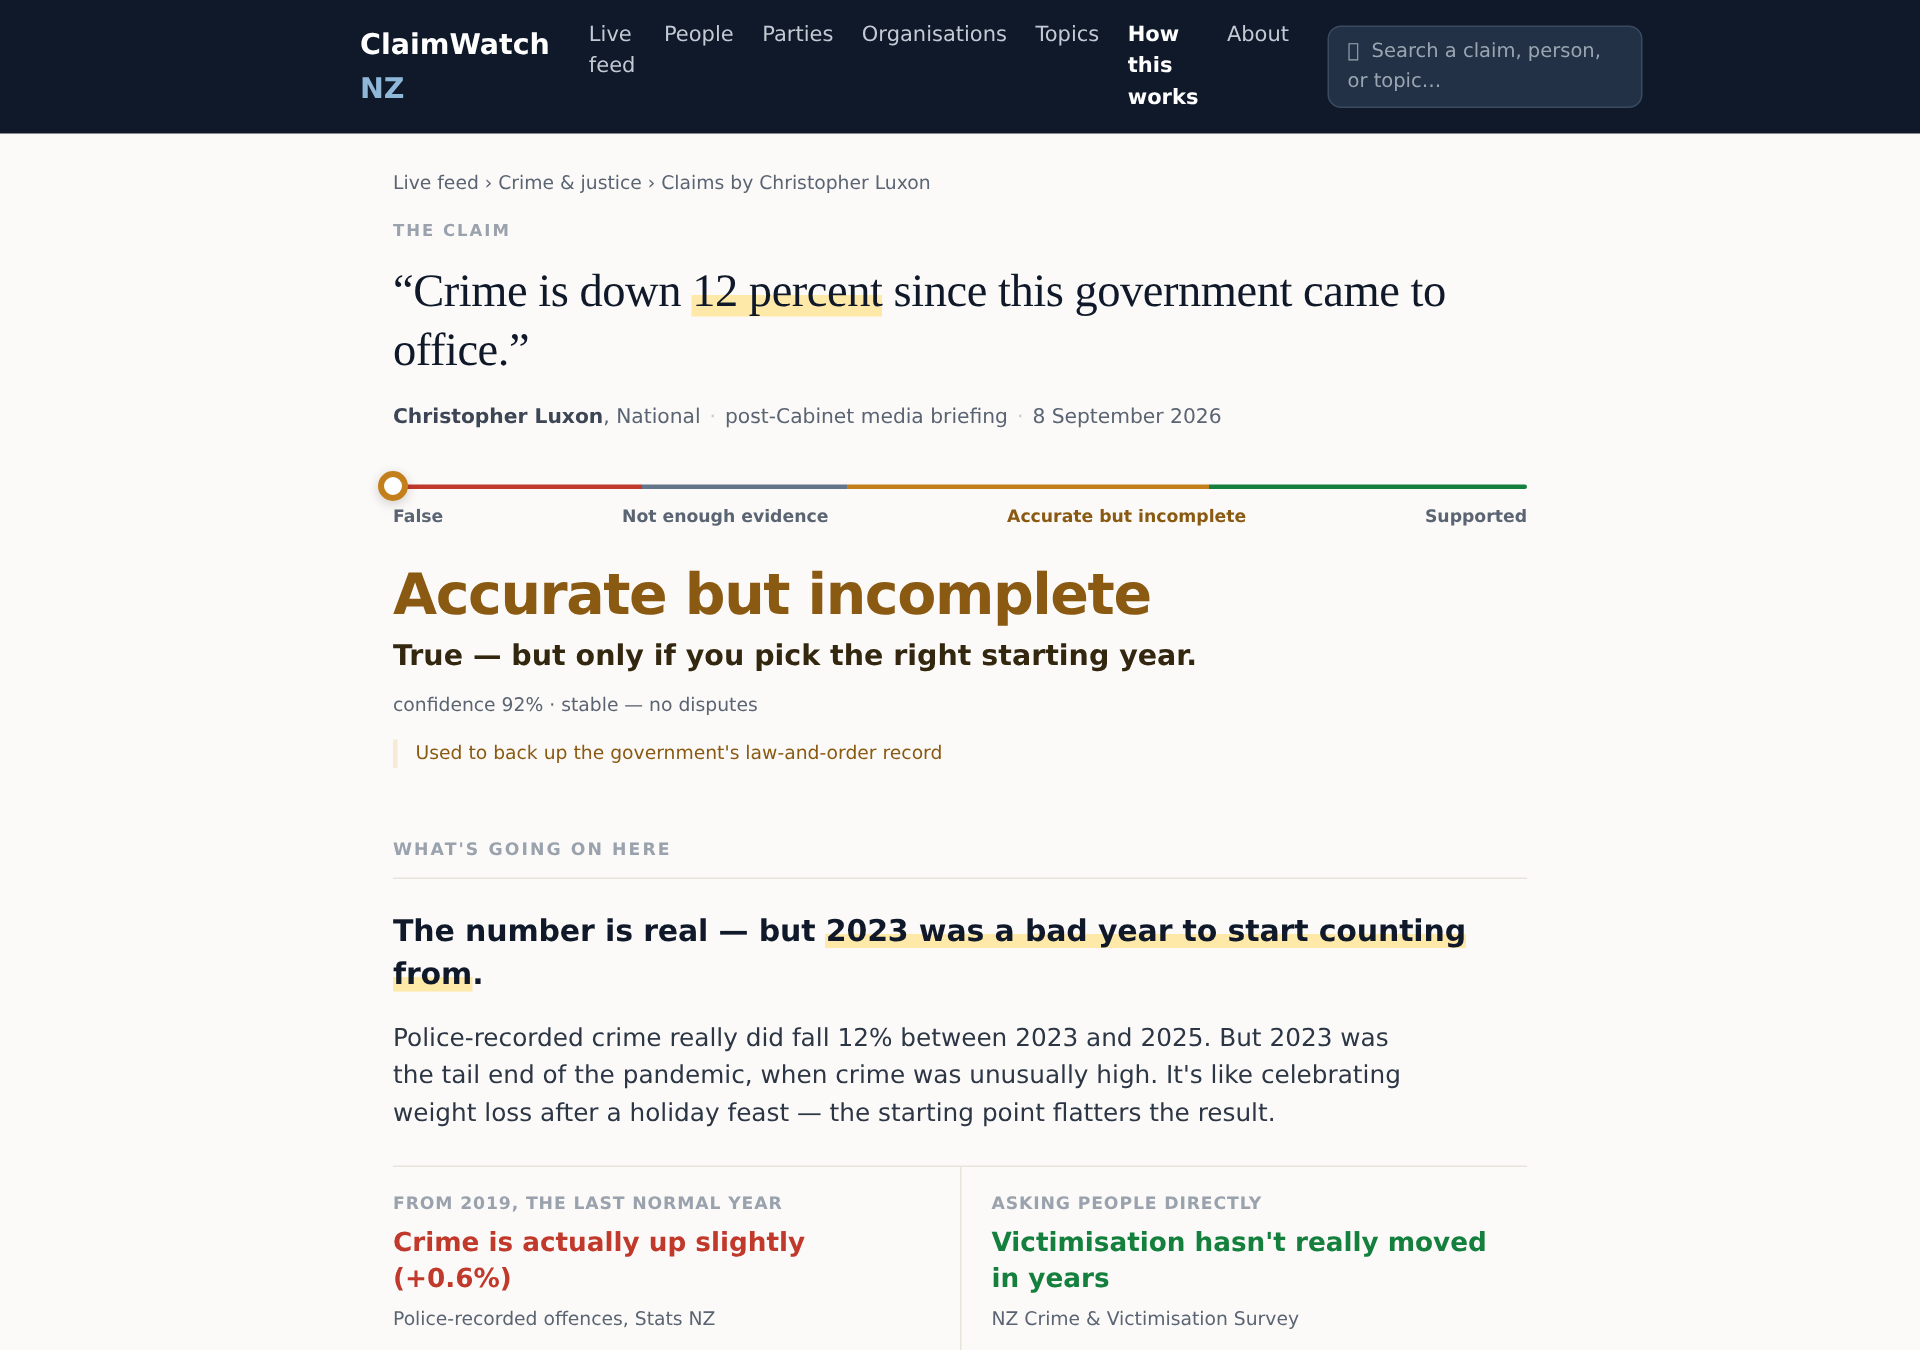
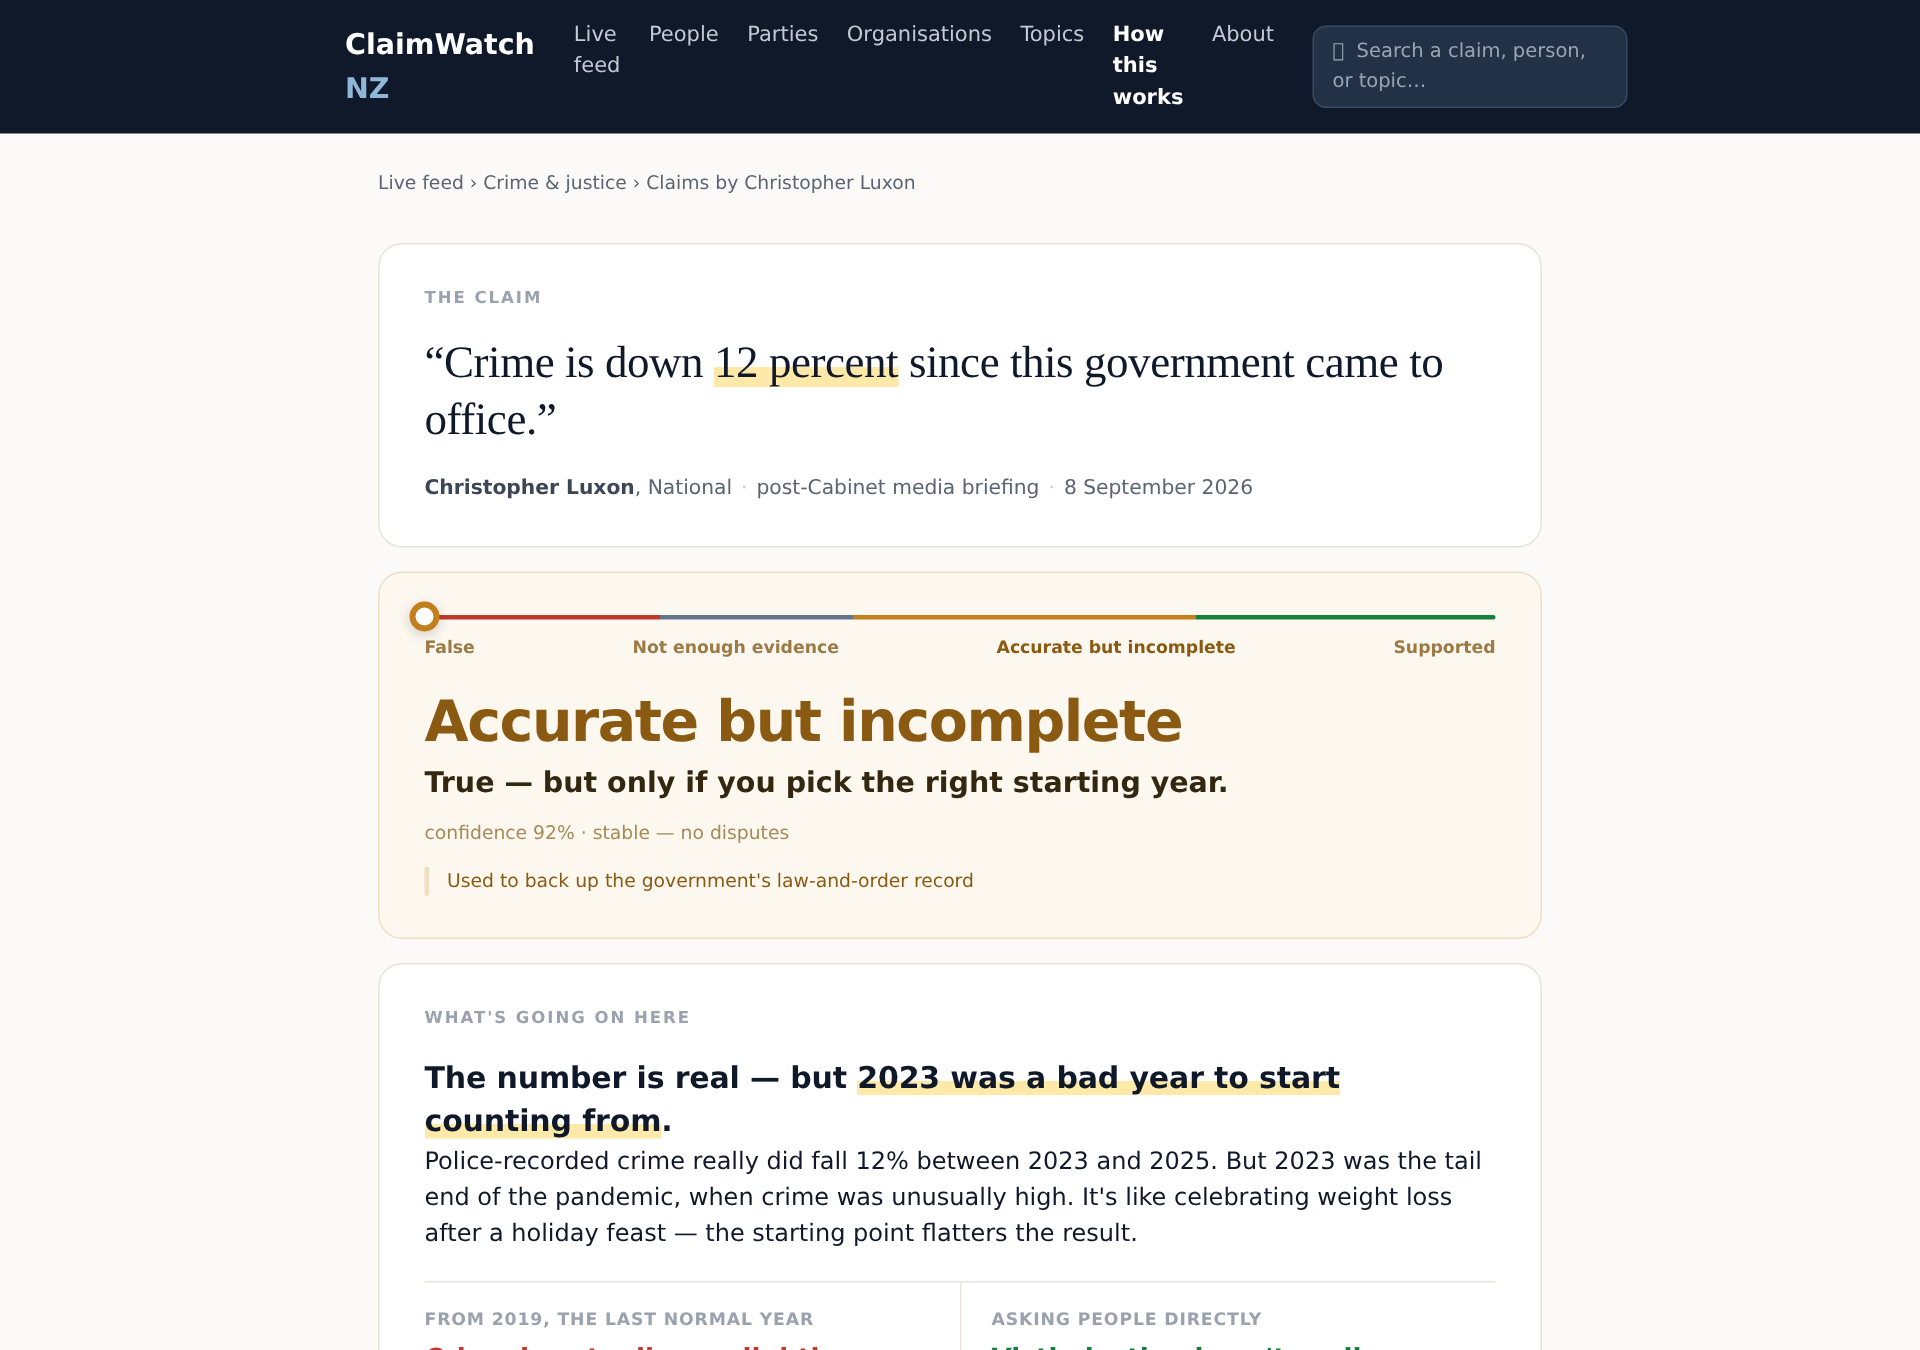
docs(mockups): verdict page v6.1 — cards restored, everything else kept
Per Bradley: go back to the cards approach.

v6.1: card system restored for section separation - white
surface, hairline border, 16px radius, no heavy shadows:
- claim card (white)
- verdict card on quiet amber surface (the one tinted card -
  the verdict is the object)
- story card with ruled fact-band + pull quote
- media card with the dark player bar
- evidence card keeping hanging typographic labels + hairline
  rows + the bordered monospace grid
- related card with hairline rows

Everything else from the accepted iterations retained: v3
verdict arrangement (spectrum rule + pin + labels + 38px word
+ demoted confidence), plain-language register, microlabels,
no coloured badge boxes, colour only for verdict + semantic
numbers

diff --git a/docs/mockups/claim-page.html b/docs/mockups/claim-page.html
@@ -2,7 +2,7 @@
 <html lang="en-NZ">
 <head>
 <meta charset="utf-8">
-<title>ClaimWatch NZ — verdict page v6 · refined separation (illustrative)</title>
+<title>ClaimWatch NZ — verdict page v7 · cards with v3 verdict arrangement (illustrative)</title>
 <style>
   :root{
     --ink:#10192a; --mut:#5a6472; --faint:#9aa2ad; --paper:#fbfaf8; --card:#fff; --line:#e8e4dc;
@@ -12,7 +12,7 @@
   }
   *{box-sizing:border-box;margin:0}
   body{font-family:"Inter","Segoe UI",system-ui,sans-serif;background:var(--paper);color:var(--ink);font-size:16px;line-height:1.5}
-  .wrap{max-width:800px;margin:0 auto;padding:0 22px}
+  .wrap{max-width:820px;margin:0 auto;padding:0 22px}
   header.site{background:var(--ink);color:#fff}
   .sitebar{display:flex;align-items:center;gap:26px;padding:13px 0}
   .logo{font-weight:800;font-size:19px}
@@ -22,36 +22,34 @@
   .search{margin-left:auto;background:#223146;border:1px solid #3a4a5f;color:#9aa5b1;border-radius:9px;padding:7px 12px;font-size:13px;min-width:210px}
   .crumbs{font-size:12.5px;color:var(--mut);padding:24px 0 14px}
 
-  /* ---- quiet section separation: whitespace + hairline + label, no shadowed cards ---- */
-  section{margin-top:40px}
-  .shead{display:flex;align-items:baseline;gap:14px;border-bottom:1px solid var(--line);padding-bottom:10px;margin-bottom:20px}
-  .shead h2{font-size:11.5px;font-weight:800;letter-spacing:.12em;text-transform:uppercase;color:var(--faint)}
-  .shead .snote{font-size:12.5px;color:#b3b9c0}
+  /* ---- card system: white surface, hairline border, soft radius, no heavy shadow ---- */
+  .card{background:var(--card);border:1px solid var(--line);border-radius:16px;padding:28px 30px;margin-top:16px}
+  .card .microlabel{font-size:11px;font-weight:800;letter-spacing:.12em;text-transform:uppercase;color:var(--faint);margin-bottom:16px}
+  .microlabel .snote{font-weight:600;letter-spacing:.02em;text-transform:none;color:#b3b9c0;margin-left:10px}
 
   /* ============ 1 · CLAIM ============ */
-  .microlabel{font-size:11px;font-weight:800;letter-spacing:.12em;text-transform:uppercase;color:var(--faint);margin-bottom:12px}
-  .quote{font-family:Georgia,"Times New Roman",serif;font-size:31px;line-height:1.26;letter-spacing:-.01em}
+  .quote{font-family:Georgia,"Times New Roman",serif;font-size:30px;line-height:1.27;letter-spacing:-.01em}
   .quote .hl{background:linear-gradient(180deg,transparent 60%,#ffe9a8 60%)}
   .who{margin-top:16px;font-size:13.5px;color:var(--mut)}
   .who b{font-weight:600;color:#3c4654}
   .who .sep{color:#c6cad1;margin:0 6px}
 
-  /* ============ 2 · VERDICT (v3 arrangement: rule+spectrum, labels under, word, confidence demoted) ============ */
-  .verdict{margin-top:34px;padding-bottom:6px}
+  /* ============ 2 · VERDICT CARD (amber surface, v3 arrangement) ============ */
+  .verdictcard{background:#fdf8ef;border-color:#eddfc2}
   .vrule{height:3px;border-radius:2px;background:linear-gradient(90deg,var(--v-ref) 0%,var(--v-ref) 22%,var(--v-nei) 22%,var(--v-nei) 40%,var(--v-inc) 40%,var(--v-inc) 72%,var(--v-sup) 72%,var(--v-sup) 100%);position:relative}
   .vpin{position:absolute;top:-9px;width:20px;height:20px;margin-left:-10px;border-radius:50%;background:#fff;border:4px solid var(--v-inc);box-shadow:0 2px 8px rgba(0,0,0,.18)}
-  .vlabels{display:flex;justify-content:space-between;font-size:11.5px;color:var(--mut);margin-top:10px;font-weight:600}
+  .vlabels{display:flex;justify-content:space-between;font-size:11.5px;color:#9b7a45;margin-top:10px;font-weight:600}
   .vlabels .here{color:#8a5a12;font-weight:800}
-  .vword{margin-top:24px;font-size:38px;font-weight:800;letter-spacing:-.025em;line-height:1.02;color:#8a5a12}
+  .vword{margin-top:22px;font-size:38px;font-weight:800;letter-spacing:-.025em;line-height:1.02;color:#8a5a12}
   .vplain{margin-top:8px;font-size:19px;line-height:1.42;font-weight:600;color:#33270f;max-width:620px}
-  .vmeta{margin-top:10px;font-size:12.5px;color:var(--mut)}
-  .deploy{margin-top:14px;font-size:12.5px;color:#8a5a12;border-left:3px solid var(--v-inc-soft);padding-left:12px}
+  .vmeta{margin-top:10px;font-size:12.5px;color:#a58a55}
+  .deploy{margin-top:14px;font-size:12.5px;color:#8a5a12;border-left:3px solid #eddfc2;padding-left:12px}
 
   /* ============ 3 · STORY ============ */
   .lead{font-size:20px;font-weight:700;line-height:1.45;letter-spacing:-.005em}
   .lead em{font-style:normal;background:linear-gradient(180deg,transparent 60%,#ffe9a8 60%)}
-  .story p{margin-top:16px;font-size:16.5px;color:#2c3644;max-width:680px}
-  .facts{display:grid;grid-template-columns:1fr 1fr;gap:0;margin:22px 0 4px;border-top:1px solid var(--line);border-bottom:1px solid var(--line)}
+  .story p{margin-top:16px;font-size:16.5px;color:#2c3644}
+  .facts{display:grid;grid-template-columns:1fr 1fr;gap:0;margin:20px 0 4px;border-top:1px solid var(--line);border-bottom:1px solid var(--line)}
   .fact{padding:16px 20px 16px 0}
   .fact + .fact{border-left:1px solid var(--line);padding-left:20px}
   .fact .fk{font-size:11.5px;font-weight:800;letter-spacing:.05em;text-transform:uppercase;color:var(--faint)}
@@ -59,11 +57,11 @@
   .fact .fs{font-size:12.5px;color:var(--mut);margin-top:5px}
   .fact.up .fv{color:var(--v-ref)}
   .fact.flat .fv{color:var(--v-sup)}
-  .pull{margin-top:22px;font-size:20px;font-weight:700;line-height:1.42;letter-spacing:-.005em}
+  .pull{margin-top:20px;font-size:20px;font-weight:700;line-height:1.42;letter-spacing:-.005em}
   .pull .k{color:var(--v-inc)}
 
   /* ============ 4 · MEDIA ============ */
-  .mediabar{display:flex;align-items:center;gap:16px;background:#0d1a2b;border-radius:14px;padding:14px 18px;color:#dfe6ee;max-width:680px}
+  .mediabar{display:flex;align-items:center;gap:16px;background:#0d1a2b;border-radius:14px;padding:14px 18px;color:#dfe6ee}
   .play{width:44px;height:44px;border-radius:50%;background:var(--blue);display:flex;align-items:center;justify-content:center;flex:none;box-shadow:0 4px 12px rgba(21,92,196,.4)}
   .mediabar .t{font-size:13.5px}
   .mediabar .t b{color:#fff;font-size:14.5px}
@@ -72,7 +70,7 @@
   .track .pos:after{content:"14:22";position:absolute;top:-20px;left:-14px;font-size:10.5px;color:#bcd0ea;font-weight:600}
   .tier2note{font-size:12.5px;color:var(--mut);margin-top:12px}
 
-  /* ============ 5 · EVIDENCE — hairline rows + hanging labels (kept) ============ */
+  /* ============ 5 · EVIDENCE — hairline rows inside the card + hanging labels ============ */
   .ev{display:grid;grid-template-columns:150px 1fr;gap:20px;padding:18px 0}
   .ev + .ev{border-top:1px solid var(--line)}
   .ev:first-of-type{border-top:1px solid var(--line)}
@@ -80,13 +78,12 @@
   .ev .lab small{display:block;font-size:11px;font-weight:600;letter-spacing:0;text-transform:none;color:#b3b9c0;margin-top:3px}
   .ev .body b{font-size:15.5px;font-weight:700}
   .ev .body .sub{font-size:13.5px;color:var(--mut);margin-top:4px;line-height:1.5}
-  .calc{font-family:"SF Mono",Consolas,monospace;font-size:13px;background:var(--card);border:1px solid var(--line);border-radius:10px;padding:14px 16px;margin-top:10px;line-height:1.8;max-width:520px}
+  .calc{font-family:"SF Mono",Consolas,monospace;font-size:13px;background:#faf8f4;border:1px solid var(--line);border-radius:10px;padding:14px 16px;margin-top:10px;line-height:1.8;max-width:540px}
   .calc .win{color:var(--v-sup);font-weight:700}
   .calc .lose{color:var(--v-ref);font-weight:700}
   .calc .tag{color:#b3b9c0}
 
-  /* ============ related — hairline rows (kept) ============ */
-  .rel{max-width:700px}
+  /* ============ related — hairline rows inside its card ============ */
   .relrow{display:flex;align-items:baseline;gap:14px;padding:12px 0;font-size:15px}
   .relrow + .relrow{border-top:1px solid var(--line)}
   .relrow:first-child{border-top:1px solid var(--line)}
@@ -94,11 +91,12 @@
   .relrow a{color:var(--blue);text-decoration:none;font-weight:600}
   .relrow .rv{color:#2c3644}
 
-  .metarow{display:flex;gap:18px;flex-wrap:wrap;font-size:12.5px;color:var(--mut);padding:10px 0 0}
-  .pipe{font-size:12px;color:#8a919b;border-left:1px dashed var(--line);padding-left:16px;margin-top:16px}
-  .contest{font-size:15px;margin-top:20px}
+  /* footer material */
+  .metarow{display:flex;gap:18px;flex-wrap:wrap;font-size:12.5px;color:var(--mut);padding:14px 30px 0}
+  .pipe{font-size:12px;color:#8a919b;border-left:1px dashed var(--line);padding-left:16px;margin-top:14px}
+  .contest{font-size:15px;margin-top:16px}
   .contest b{font-weight:800}
-  .fb{display:flex;gap:10px;align-items:center;margin:18px 0 0;font-size:14px;color:var(--mut)}
+  .fb{display:flex;gap:10px;align-items:center;margin:16px 0 6px;font-size:14px;color:var(--mut)}
   .fb .btn{border:1px solid var(--line);background:#fff;border-radius:10px;padding:7px 16px;font-weight:600;color:#3c4654}
   .footer{padding:30px 0 46px;color:#a5abb4;font-size:12px;text-align:center}
 </style></head>
@@ -112,13 +110,15 @@
 <div class="wrap">
 <div class="crumbs">Live feed › Crime &amp; justice › Claims by Christopher Luxon</div>
 
-  <!-- 1 · CLAIM -->
-  <div class="microlabel">The claim</div>
-  <div class="quote">“Crime is down <span class="hl">12&nbsp;percent</span> since this government came to office.”</div>
-  <div class="who"><b>Christopher Luxon</b>, National<span class="sep">·</span>post-Cabinet media briefing<span class="sep">·</span>8 September 2026</div>
+  <!-- 1 · CLAIM CARD -->
+  <div class="card">
+    <div class="microlabel">The claim</div>
+    <div class="quote">“Crime is down <span class="hl">12&nbsp;percent</span> since this government came to office.”</div>
+    <div class="who"><b>Christopher Luxon</b>, National<span class="sep">·</span>post-Cabinet media briefing<span class="sep">·</span>8 September 2026</div>
+  </div>
 
-  <!-- 2 · VERDICT -->
-  <div class="verdict">
+  <!-- 2 · VERDICT CARD -->
+  <div class="card verdictcard">
     <div class="vrule"><span class="vpin"></span></div>
     <div class="vlabels"><span>False</span><span>Not enough evidence</span><span class="here">Accurate but incomplete</span><span>Supported</span></div>
     <div class="vword">Accurate but incomplete</div>
@@ -127,9 +127,9 @@
     <div class="deploy">Used to back up the government's law-and-order record</div>
   </div>
 
-  <!-- 3 · WHAT'S GOING ON -->
-  <section class="story">
-    <div class="shead"><h2>What's going on here</h2></div>
+  <!-- 3 · STORY CARD -->
+  <div class="card">
+    <div class="microlabel">What's going on here</div>
     <div class="lead">The number is real — but <em>2023 was a bad year to start counting from</em>.</div>
     <p>Police-recorded crime really did fall 12% between 2023 and 2025. But 2023 was the tail end of the pandemic, when crime was unusually high. It's like celebrating weight loss after a holiday feast — the starting point flatters the result.</p>
     <div class="facts">
@@ -145,11 +145,11 @@
       </div>
     </div>
     <div class="pull">Not a lie — but the starting year was chosen to make the fall look bigger than it is. <span class="k">That's what "incomplete" means here.</span></div>
-  </section>
+  </div>
 
-  <!-- 4 · HEAR IT -->
-  <section class="mediasec">
-    <div class="shead"><h2>Hear it for yourself</h2></div>
+  <!-- 4 · MEDIA CARD -->
+  <div class="card">
+    <div class="microlabel">Hear it for yourself</div>
     <div class="mediabar">
       <span class="play"><svg width="15" height="15" viewBox="0 0 14 14"><path d="M3 2l10 5-10 5z" fill="#fff"/></svg></span>
       <span class="t"><b>1News At Six, 8 Sep 2026</b><br>48-second clip</span>
@@ -157,11 +157,11 @@
       <span class="t" style="color:#9aa5b1">0:48</span>
     </div>
     <div class="tier2note">The broadcaster's own upload. Subtitles are auto-generated, so we always check the words against the audio — listen and judge.</div>
-  </section>
+  </div>
 
-  <!-- 5 · EVIDENCE -->
-  <section>
-    <div class="shead"><h2>What we checked it against</h2><span class="snote">public · re-runnable</span></div>
+  <!-- 5 · EVIDENCE CARD -->
+  <div class="card">
+    <div class="microlabel">What we checked it against<span class="snote">public · re-runnable</span></div>
     <div class="ev">
       <div class="lab">Official data<small>Stats NZ</small></div>
       <div class="body"><b>Police-recorded offences (Dec 2025 release)</b>
@@ -188,24 +188,20 @@
       <div class="body"><b>The original words</b>
         <div class="sub">"…twelve percent" at 14:26 in the clip above — quoted exactly, linked so you can hear it in context.</div></div>
     </div>
-  </section>
+  </div>
 
-  <!-- related -->
-  <section>
-    <div class="shead"><h2>Related</h2></div>
-    <div class="rel">
-      <div class="relrow"><span class="rk">Same speaker, same topic</span><span class="rv">6 claims — <a href="#">2 were wrong</a></span></div>
-      <div class="relrow"><span class="rk">This claim elsewhere</span><span class="rv">Repeated twice since 8 Sep — <a href="#">see each time</a></span></div>
-      <div class="relrow"><span class="rk">The argument it was part of</span><span class="rv">"Tough on crime" speech — <a href="#">see the argument</a></span></div>
-    </div>
-  </section>
+  <!-- RELATED CARD -->
+  <div class="card">
+    <div class="microlabel">Related</div>
+    <div class="relrow"><span class="rk">Same speaker, same topic</span><span class="rv">6 claims — <a href="#">2 were wrong</a></span></div>
+    <div class="relrow"><span class="rk">This claim elsewhere</span><span class="rv">Repeated twice since 8 Sep — <a href="#">see each time</a></span></div>
+    <div class="relrow"><span class="rk">The argument it was part of</span><span class="rv">"Tough on crime" speech — <a href="#">see the argument</a></span></div>
+  </div>
 
-  <section style="border-top:none">
-    <div class="metarow"><span>Checked 41 min after the briefing</span><span>·</span><span><a href="#" style="color:var(--blue);text-decoration:none">How we check claims</a></span><span>·</span><span>Request a check · 0 others asked</span></div>
-    <div class="pipe"><b>How this verdict was made:</b> produced by our automated pipeline (v0.9.2) and quality-audited. Data tables, prompt versions and audit results are logged and public. Changelog →</div>
-    <div class="contest"><b>Think we've got this wrong?</b> <a href="#" style="color:var(--blue);text-decoration:none;font-weight:600">Tell us</a> — with a source we should have used. Contests are public, and when one checks out we change the verdict and show the change history. Nobody's above a correction, including us.</div>
-    <div class="fb">Was this useful? <span class="btn">👍 Yes</span> <span class="btn">👎 Something's off</span> <span class="btn">✎ Tell us more</span></div>
-  </section>
+  <div class="metarow"><span>Checked 41 min after the briefing</span><span>·</span><span><a href="#" style="color:var(--blue);text-decoration:none">How we check claims</a></span><span>·</span><span>Request a check · 0 others asked</span></div>
+  <div class="pipe"><b>How this verdict was made:</b> produced by our automated pipeline (v0.9.2) and quality-audited. Data tables, prompt versions and audit results are logged and public. Changelog →</div>
+  <div class="contest"><b>Think we've got this wrong?</b> <a href="#" style="color:var(--blue);text-decoration:none;font-weight:600">Tell us</a> — with a source we should have used. Contests are public, and when one checks out we change the verdict and show the change history. Nobody's above a correction, including us.</div>
+  <div class="fb">Was this useful? <span class="btn">👍 Yes</span> <span class="btn">👎 Something's off</span> <span class="btn">✎ Tell us more</span></div>
 
-<div class="footer">Mockup v6 · illustrative content only — claims, figures and verdicts shown are examples, not published checks.</div>
+<div class="footer">Mockup v6.1 · illustrative content only — claims, figures and verdicts shown are examples, not published checks.</div>
 </div></body></html>
